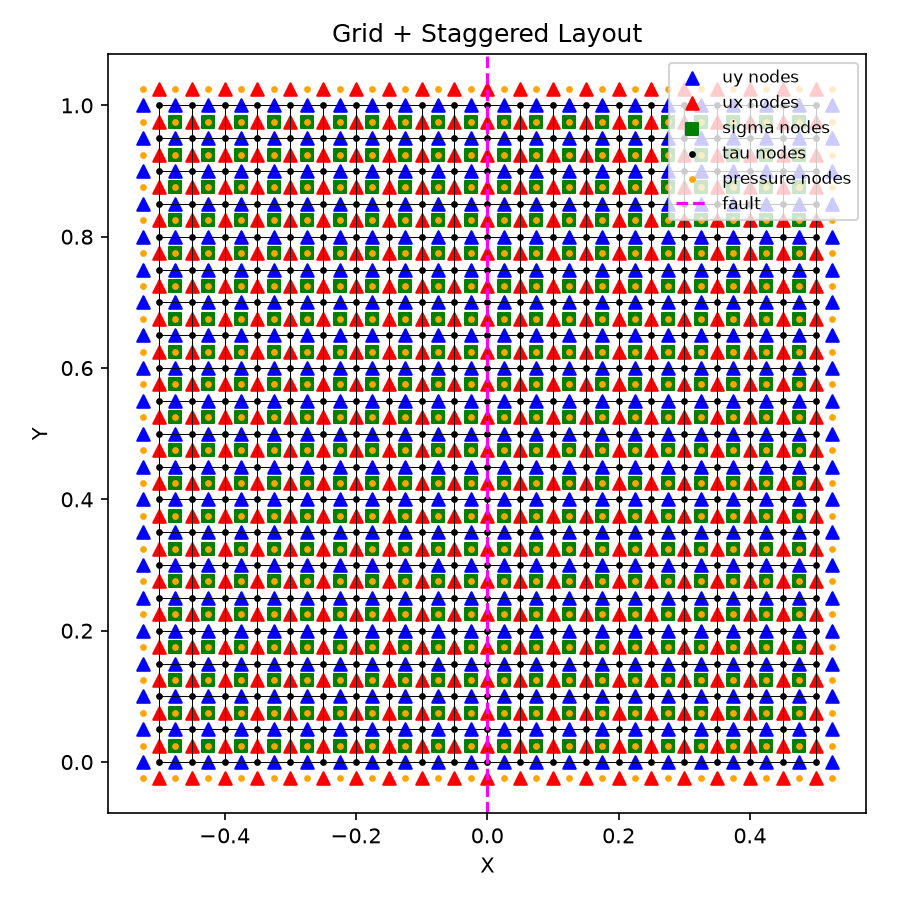
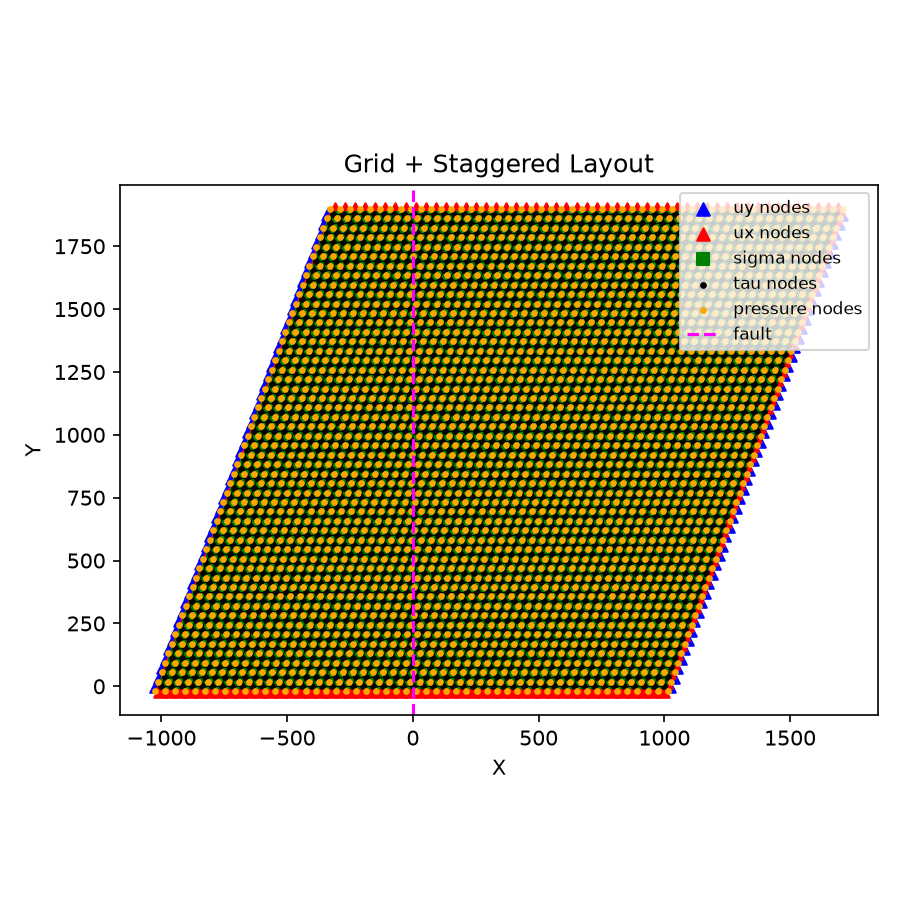
one more example

diff --git a/examples/run_case_groningen.py b/examples/run_case_groningen.py
@@ -1,0 +1,63 @@
+#/////////////////////////////////////////////////
+__author__      = "Chengshun Shang (Utrecht University)"
+__copyright__   = "Copyright (C) 2026-present by Chengshun Shang"
+__version__     = "0.0.1"
+__maintainer__  = "Chengshun Shang"
+__email__       = "c.shang@uu.nl"
+__status__      = "development"
+__date__        = "June 28, 2026"
+__license__     = "MIT License"
+#/////////////////////////////////////////////////
+
+from fastslippy import FastSlipPy
+from fastslippy.pre_processing.model_parameters import ModelParameters
+
+class RunFastSlipPy(FastSlipPy):
+    """
+    This can be customized for specific runs.
+    """
+    def run(self):
+        super().run()
+
+if __name__ == "__main__":
+    # Customise parameters here or leave all defaults
+
+    params = ModelParameters(
+        case_type = "groningen",
+        alpha = 70.0,
+        xsize = 2000.0,
+        ysize = 2000.0,
+        Nx=51, Ny=51,
+        Nt=100,
+        output_interval=10,
+        checkpoint_interval=1000,
+        Vi=1e-30,
+        dt_init=1.0,
+        dt_max = 1e6,
+        mu0=0.3,
+        nu=0.15,
+        #E=0.55e10, #according to k_critical = sigam * (b-a) / d_c, E = 1e10
+        V0 = 1e-6,
+        a0 = 0.01,
+        b0 = 0.015
+    )
+
+    yr = 365 * 24 * 3600.0
+    params.loading.tload = 1000.0 * yr
+    params.loading.dPdt_pre = 0.0
+    params.loading.dPdt_post = -0.0127
+
+    params.bc.left.ux.set_free()
+    params.bc.left.uy.set_free()
+    params.bc.right.ux.set_free()
+    params.bc.right.uy.set_free()
+    params.bc.bottom.ux.set_fixed()
+    params.bc.bottom.uy.set_fixed()
+    params.bc.top.ux.set_fixed()
+    params.bc.top.uy.set_fixed()
+
+    params.layers.set_homogeneous(a=params.a0, b=params.b0)
+
+    #params = ModelParameters()
+    model = RunFastSlipPy(params=params, output_dir="output")
+    model.run()

diff --git a/src/fastslippy/solver/matrix_builder.py b/src/fastslippy/solver/matrix_builder.py
@@ -157,12 +157,12 @@ class MatrixBuilder:
                         else:
                             raise ValueError(f"Unknown BC type: {p.bc.top.ux.type}")
                     elif ix == 0:
-                        if p.bc.left.ux.type == BCType.FIXED or p.bc.left.ux.type == BCType.VELOCITY:
+                        if p.bc.left.ux.type == BCType.FIXED or p.bc.left.ux.type == BCType.VELOCITY or p.bc.left.ux.type == BCType.FREE:
                             add(kux, kux, 1)
                         else:
                             raise ValueError(f"BC type: {p.bc.left.ux.type} is not supported for left boundary yet.")
                     elif ix == Nx - 1:
-                        if p.bc.right.ux.type == BCType.FIXED or p.bc.right.ux.type == BCType.VELOCITY:
+                        if p.bc.right.ux.type == BCType.FIXED or p.bc.right.ux.type == BCType.VELOCITY or p.bc.right.ux.type == BCType.FREE:
                             add(kux, kux, 1)
                         else:
                             raise ValueError(f"BC type: {p.bc.right.ux.type} is not supported for right boundary yet.")
